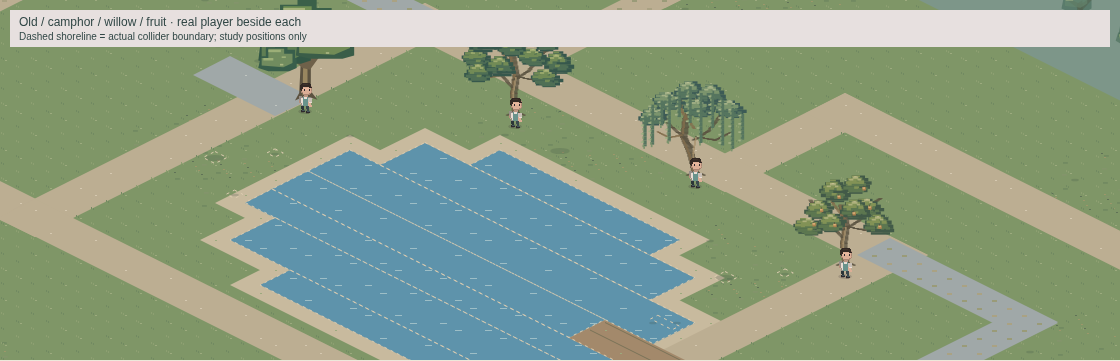
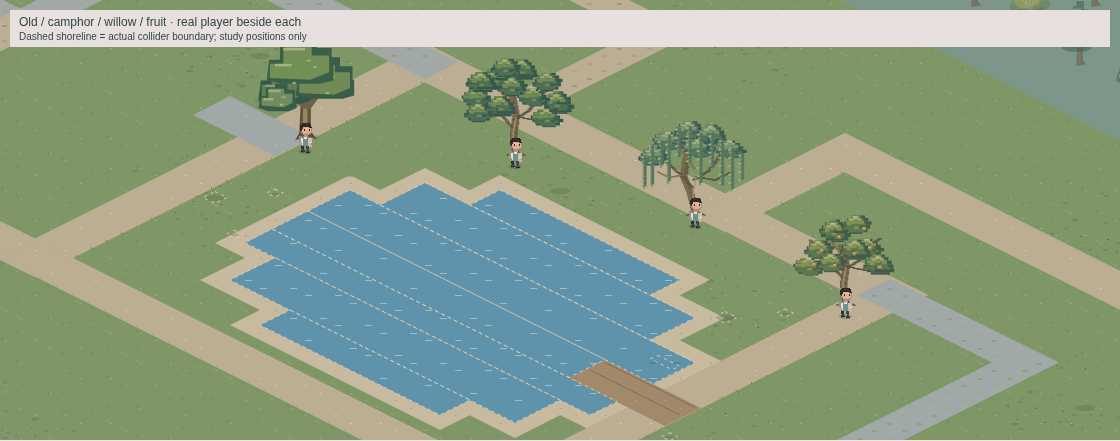
docs(world/0091): correct actual camera scale and standing evidence

diff --git a/docs/evidence/world/0091/study.ts b/docs/evidence/world/0091/study.ts
@@ -1,11 +1,12 @@
 import { drawFoliage, foliageBounds, type FoliageSpecies } from '../../../../src/world/art/landscape/foliage';
 import { drawLandscapeProp as oldTree } from './old-52a4046';
-import { project } from '/@fs/workspace/junyan-audit-ready-art/src/world/camera.ts';
+import { project, cameraForMap } from '/@fs/workspace/junyan-audit-ready-art/src/world/camera.ts';
 import { mapDefinitions } from '/@fs/workspace/junyan-audit-ready-art/src/world/maps/landscape/index.ts';
 import { drawMap } from '/@fs/workspace/junyan-audit-ready-art/src/world/art/landscape/index.ts';
 import { drawPlayer } from '/@fs/workspace/junyan-audit-ready-art/src/world/painter.ts';
 import { colorShader } from '/@fs/workspace/junyan-audit-ready-art/src/world/lighting.ts';
 import { sampleAtmosphere } from '/@fs/workspace/junyan-audit-ready-art/src/world/atmosphere/index.ts';
+import { canStand } from '/@fs/workspace/junyan-audit-ready-art/src/world/geometry.ts';
 const species: FoliageSpecies[]=['camphor','willow','fruit'];
 const input=(s:FoliageSpecies,time=0,reducedMotion=true,shadeColor=(s:string)=>s)=>({species:s,seed:42,elapsedMs:time,reducedMotion,shadeColor});
 const native=document.querySelector<HTMLCanvasElement>('#native')!, n=native.getContext('2d')!;
@@ -15,6 +16,13 @@ for(let i=0;i<4;i++){
  if(!i)oldTree(n,{kind:'mature-tree',position:{x:0,y:0},width:7,height:7,variant:0},()=>({x:0,y:0}),18,0,true);
  else drawFoliage(n,input(species[i-1]));n.restore();
  n.fillStyle='#344b43';n.font='11px sans-serif';n.fillText(['OLD 52a4046',...species][i],32+i*192,151);
+}
+const contract=document.querySelector<HTMLCanvasElement>('#contract')!, d=contract.getContext('2d')!;
+d.fillStyle='#d4d8be';d.fillRect(0,0,768,320);
+for(let row=0;row<2;row++)for(let i=0;i<3;i++) {
+ const s=species[i],box=foliageBounds(input(s));d.save();d.translate(128+i*256,140+row*155);
+ d.strokeStyle='#71816d';d.strokeRect(box.minX,box.minY,box.maxX-box.minX,box.maxY-box.minY);
+ d.globalAlpha=row?.35:1;drawFoliage(d,input(s,0,true,row?c=>c:()=> '#344b43'));d.restore();
 }
 const map=mapDefinitions[0];
 function scene(id:string,unit:number,timeOfDay:'morning'|'evening') {
@@ -32,7 +40,7 @@ function scene(id:string,unit:number,timeOfDay:'morning'|'evening') {
  const spots=phone?[[42,23],[51,21],[61,23]]:[[35,27],[43,21],[53,19],[64,20]];
  spots.forEach(([x,y],i)=>{
   const actor={x:x+1,y:y+1};
-  for(const position of [{x,y},actor])if(map.colliders.some((c:any)=>position.x>=c.rect.x&&position.x<c.rect.x+c.rect.width&&position.y>=c.rect.y&&position.y<c.rect.y+c.rect.height))throw Error('Study specimen/actor intersects production collider');
+  if(!canStand(map,{x,y},.5)||!canStand(map,actor))throw Error('Study specimen/actor fails production radius-aware canStand');
   const p=view.project({x,y});ctx.save();ctx.translate(Math.round(p.x),Math.round(p.y));ctx.scale(unit/18,unit/18);
   if(!phone&&i===0)oldTree(ctx,{kind:'mature-tree',position:{x:0,y:0},width:7,height:7,variant:0},()=>({x:0,y:0}),18,0,true,shadeColor);
   else drawFoliage(ctx,input(species[phone?i:i-1],0,true,shadeColor));ctx.restore();
@@ -41,6 +49,20 @@ function scene(id:string,unit:number,timeOfDay:'morning'|'evening') {
  ctx.fillStyle=shadeColor('#f3ebd5');ctx.fillRect(10,10,canvas.width-20,37);ctx.fillStyle=shadeColor('#344b43');ctx.font='12px sans-serif';ctx.fillText(phone?'Camphor / willow / fruit · real player scale':'Old / camphor / willow / fruit · real player beside each',19,26);ctx.font='10px sans-serif';ctx.fillText('Dashed shoreline = actual collider boundary; study positions only',19,40);
 }
 scene('desktop',15,'morning');scene('phone',11,'morning');scene('evening',15,'evening');
+const actualViews:any[]=[];
+for(const mode of ['phone','desktop'])for(const s of species) {
+ const phone=mode==='phone',w=phone?390:1120,h=phone?620:640,unit=phone?11:15;
+ const canvas=document.createElement('canvas');canvas.id=`actual-${mode}-${s}`;canvas.width=Math.ceil(w/2);canvas.height=Math.ceil(h/2);canvas.style.width=w+'px';canvas.style.height=h+'px';
+ const label=document.createElement('p');label.textContent=`${mode} · ${s} · actual App display scale`;
+ document.querySelector('#actual')!.append(label,canvas);
+ const ctx=canvas.getContext('2d')!,actor={x:46,y:22},foot={x:44,y:22};
+ if(!canStand(map,actor)||!canStand(map,foot,.5))throw Error('Actual scale view fails canStand');
+ const camera=cameraForMap(map.bounds,actor,canvas.width,canvas.height,unit,0,0);
+ const shadeColor=colorShader(sampleAtmosphere({mapId:'park',day:1,timeOfDay:'morning',elapsedMs:0,seed:42,reducedMotion:true}).light);
+ const view={project:(p:any,z=0)=>project(p,camera,z),shadeColor,elapsedMs:0,reducedMotion:true,playerPosition:actor,width:canvas.width,height:canvas.height,pass:'ground'};
+ drawMap(ctx,map,view);const at=view.project(foot);ctx.save();ctx.translate(Math.round(at.x),Math.round(at.y));ctx.scale(unit/18,unit/18);drawFoliage(ctx,input(s,0,true,shadeColor));ctx.restore();drawPlayer(ctx,view,actor,'east',false,unit);
+ actualViews.push({mode,species:s,cssViewport:{width:w,height:h},backing:{width:canvas.width,height:canvas.height},camera,specimenFoot:foot,treeFootRadius:.5,actor,playerRadius:.22,canStand:true,scope:'production cameraForMap / drawPlayer / drawMap component, no App controls; inset0'});
+}
 const check=document.createElement('canvas');check.width=200;check.height=160;const ctx=check.getContext('2d')!;
 function pixels(s:FoliageSpecies,time=0,reduced=true,alpha=1){ctx.setTransform(1,0,0,1,0,0);ctx.clearRect(0,0,200,160);ctx.translate(100,140);ctx.globalAlpha=alpha;drawFoliage(ctx,input(s,time,reduced));return ctx.getImageData(0,0,200,160).data;}
 const equal=(a:Uint8ClampedArray,b:Uint8ClampedArray)=>a.every((v,i)=>v===b[i]);
@@ -52,4 +74,4 @@ const checks=species.map(s=>{
  const start=performance.now();for(let i=0;i<1000;i++)drawFoliage(ctx,input(s,i*16,false));const ms=(performance.now()-start)/1000;
  return {species:s,deterministic:equal(a,b),reducedMotionStable:equal(a,r),boundsContainAllSampledSway:contained,inheritedAlpha,transformPreserved,shadeCalls:calls.length,uniqueShadeBases:new Set(calls).size,halfAlphaMax:Math.max(...half.filter((_,i)=>i%4===3)),sampledVisiblePixels:count,drawMsMean1000:ms};
 });
-Object.assign(window,{__FOLIAGE_STUDY__:{scope:'component study, not integrated App acceptance',productionReference:'1b42875',checks}});
+Object.assign(window,{__FOLIAGE_STUDY__:{scope:'component study, not integrated App acceptance',productionReference:'1b42875',actualViews,checks}});

diff --git a/docs/evidence/world/0091/study.html b/docs/evidence/world/0091/study.html
@@ -2,7 +2,10 @@
 <style>body{margin:0;padding:20px;background:#ede8da;color:#344b43;font:14px system-ui}h1{font-size:22px;margin:0 0 8px}p{margin:8px 0 16px;max-width:900px}canvas{image-rendering:pixelated;display:block;max-width:100%;margin-bottom:16px}#native{width:768px}#phone{width:390px}h2{font-size:17px}</style>
 <h1>0091 · authored foliage study</h1><p>Component study only. Old 52a4046 specimen → broad camphor → leaning willow → open fruit crown. Native foot anchor and light from upper left. Production map, camera, actor and ground renderer; temporary specimen positions, no collider or App acceptance claim.</p>
 <canvas id="native" width="768" height="156"></canvas>
-<h2>Desktop · morning · unit 15 (production camera scale)</h2><canvas id="desktop" width="1120" height="440"></canvas>
-<h2>Phone · morning · unit 11 (production camera scale)</h2><canvas id="phone" width="390" height="620"></canvas>
-<h2>Evening · same geometry, explicit production light callback</h2><canvas id="evening" width="1120" height="360"></canvas>
+<h2>Silhouette / conservative bounds, then inherited alpha .35</h2><canvas id="contract" width="768" height="320"></canvas>
+<h2>Reduced-scale desktop comparison · morning · unit 15</h2><canvas id="desktop" width="1120" height="440"></canvas>
+<h2>Reduced-scale phone comparison · morning · unit 11</h2><canvas id="phone" width="390" height="620"></canvas>
+<h2>Evening · same geometry, explicit production light callback</h2><canvas id="evening" width="1120" height="440"></canvas>
+<h2>Actual App scale · cameraForMap · half-resolution backing displayed 2×</h2><p>One specimen at a time. Phone390×620: backing195×310, unit11. Desktop1120×640: backing560×320, unit15. No interaction panel in this component harness; insets0. Ground, camera, actor and standing checks are production functions from1b42875.</p>
+<div id="actual"></div>
 <script type="module" src="./study.ts"></script>

diff --git a/docs/evidence/world/0091/README.md b/docs/evidence/world/0091/README.md
@@ -6,7 +6,9 @@ The production change is only `src/world/art/landscape/foliage.ts`. Its exports 
 
 `native.png` is an actual 768×156 native-pixel comparison: old 52a4046 mature tree, broad camphor, leaning willow, open fruit tree. No generated image assets. Hand-placed canopy tufts have stepped contours, broken upper-left light planes, interleaving branch windows, and purposefully limited smaller leaf planes. Willow curtains have eleven authored unequal lengths with small injected-time sway. Fruit clusters are hand-placed and use a seed-selected one-pixel harvest placement. Camphor is intentionally a stable authored specimen regardless of seed.
 
-`desktop.png`, `phone.png` and `evening.png` are isolated canvas study captures, **not the App, travel acceptance, integrated collision acceptance, or a whole-world visual claim**. Canvas scales are the production desktop15/phone11 units (foliage native scale `unit/18`), alongside the actual current player. Ground, path and pond are the unmodified production park renderer. New trees are evidence-only specimen positions; both feet and adjacent actor positions are checked against every production collider. Dashed lines expose actual pond collider rectangles; internal seams are diagnostics, not new routes. No shadow redesign or new contact/cast shadows were added by this module or harness.
+`actual-phone-{camphor,willow,fruit}.png` and `actual-desktop-{camphor,willow,fruit}.png` show one specimen and the actual current player at the App's display scale. The harness calls production `cameraForMap` with the exact `WorldViewport.tsx` half-resolution backing rule (lines72–74 in1b42875): phone CSS390×620 / backing195×310 / scale11; desktop CSS1120×640 / backing560×320 / scale15. The CSS displays these canvases2×, giving effective22/30 CSS pixels per world unit. Insets are0 because this component harness has no interaction panel. Projection and returned camera, viewport, foot, actor and radius are serialized in `checks.json`. The radius-aware production `canStand` passes for every actor (radius.22) and specimen foot (conservative radius.5).
+
+`desktop.png`, `phone.png` and `evening.png` remain **reduced-scale** comparison sheets (single backing/CSS pixel ratio, units15/11). The original WIP mislabeled these as production scale; review caught the missing2× canvas display step and the new actual-scale views correct that claim. `native.png` remains actual native pixels. `contract.png` shows silhouettes/bounds and inherited alpha. All are isolated canvas study captures, **not the App, travel acceptance, integrated collision acceptance, or whole-world visual acceptance**. Ground, path and pond are the unmodified production park renderer. New trees are evidence-only specimen positions. Dashed pond collider rectangles on comparison sheets are diagnostics, not new routes. No shadow redesign or new contact/cast shadows were added by this module or harness.
 
 Production reference: read-only `/workspace/junyan-audit-ready-art`, detached `1b42875`, approved ready-art composition containing atmosphere63a5803, landscape52a4046, rooftop2d22909. The old specimen is preserved verbatim in evidence-only `old-52a4046.ts` from `git show 52a4046:src/world/art/landscape/draw.ts`. `study.ts` imports reference camera/actor/ground/atmosphere functions via Vite `/@fs`; reference checkout must exist there for reproduction. Morning and evening both use production `sampleAtmosphere` → `colorShader` passed explicitly into `drawFoliage`.
 
@@ -14,7 +16,7 @@ Production reference: read-only `/workspace/junyan-audit-ready-art`, detached `1
 
 `checks.json` is captured in Chromium by `capture.mjs`. Three species pass equal-input determinism, reduced-motion pixel equality across elapsed0/99999, full pixel bounds containment sampled every170ms through14s (including willow sway), inherited `globalAlpha=.5`, transform preservation and one shade callback per unique base material (8 camphor/willow,10 fruit). Bounds include all roots and seed-selected fruit positions. Alpha is preserved as normal canvas source-over drawing; overlapping authored spans accumulate opacity, as in the existing procedural artwork. This does not promise isolated-group opacity.
 
-Initial measured mean of1000 direct draws/species: camphor0.286ms, willow0.348ms, fruit0.255ms in cloud system Chromium, a component microbenchmark rather than a phone GPU/frame-budget guarantee. Existing camera culling must be retained. No console/page errors in final capture.
+Latest measured mean of1000 direct draws/species: camphor0.310ms, willow0.352ms, fruit0.257ms in cloud system Chromium, a component microbenchmark rather than a phone GPU/frame-budget guarantee. Existing camera culling must be retained. No console/page errors in final capture.
 
 Run from `/workspace/junyan-0091` with Node22:
 
@@ -24,4 +26,4 @@ Run from `/workspace/junyan-0091` with Node22:
 /workspace/.junyan-tools/node_modules/node/bin/node node_modules/typescript/bin/tsc --noEmit
 ```
 
-TypeScript passes. Build/rules results are recorded in the ticket after completion. Root/coordinator must judge the authored study before0084 consumes it; foundation current-head integrated capture remains a separate requirement. No full App journey was claimed for this source-only seam.
+TypeScript passes. Standard Vite production build passes (existing chunk-size/Zod annotation warnings); existing rules suite passes308/308 tests in26 files. An initial custom `/tmp` output directory failed the existing build plugin's hardcoded `dist` scan; rerunning the unmodified standard build succeeded. Build checks the existing App regression; the new module is exercised through the evidence harness and TypeScript because integration is intentionally pending. Root/coordinator must judge the authored study before0084 consumes it; foundation current-head integrated capture remains a separate requirement. No full App journey was claimed for this source-only seam.

diff --git a/docs/tickets/world/0091-foliage-craft.md b/docs/tickets/world/0091-foliage-craft.md
@@ -15,6 +15,8 @@ Produce3distinct authored pixel-cluster mature species with branching/negative s
 
 Authored camphor, leaning willow and fruit specimens are in `src/world/art/landscape/foliage.ts`. Exact seam exports `drawFoliage`/`foliageBounds`; caller supplies foot-anchored translated/scaled native context, explicit shade callback, seed/time/reduced motion. Bounds conservative including sway. Context saved/restored; inherited alpha preserved. Fixed material shading once per base.
 
-Evidence and reproduction: `docs/evidence/world/0091/README.md`, native/desktop/phone/evening PNGs, browser checks JSON. Production reference approved by coordinator:1b42875 ready-art composition (atmosphere63a5803, landscape52a4046, rooftop2d22909). Evidence imports existing camera/player/ground/light from read-only reference; no shared-source edits. Both specimen and actor feet checked against production colliders, with diagnostic pond collider lines. Study is not App/travel/world acceptance.
+Evidence and reproduction: `docs/evidence/world/0091/README.md`, native/desktop/phone/evening PNGs, browser checks JSON. Production reference approved by coordinator:1b42875 ready-art composition (atmosphere63a5803, landscape52a4046, rooftop2d22909). Evidence imports existing camera/player/ground/light from read-only reference; no shared-source edits. Actual App-scale captures call production cameraForMap with half-resolution backing displayed2× (phone195×310→390×620/unit11; desktop560×320→1120×640/unit15), one specimen per view. Production radius-aware canStand passes for actor.22 and treefoot.5. Original comparison sheets are explicitly reduced-scale. Study is not App/travel/world acceptance.
 
-Typecheck passes; browser console clean. Determinism, reduced-motion, sampled pixel bounds, inherited alpha, transform and unique-material shade checks pass for all3. Initial mean draw cost0.255–0.348ms/1000-draw samples; real phone frame budget remains integration work. Build/rules currently running. Root/coordinator study review then0084 adapter integration and current-head App capture remain pending; do not mark whole goal complete.
+Typecheck passes; browser console clean. Determinism, reduced-motion, sampled pixel bounds, inherited alpha, transform and unique-material shade checks pass for all3. Latest mean draw cost0.257–0.352ms/1000-draw samples; real phone frame budget remains integration work. Standard Vite build passes;308/308 existing rules tests pass (26 files). Initial custom output-dir build failed existing plugin dist assumption, corrected by standard build. Root/coordinator study review then0084 adapter integration and current-head App capture remain pending; do not mark whole goal complete.
+
+Coordinator native-art direction review: substantial improvement and3distinct branching/open crowns accepted for focused next review. Actual-scale corrected evidence now supplied; no final production acceptance implied.
